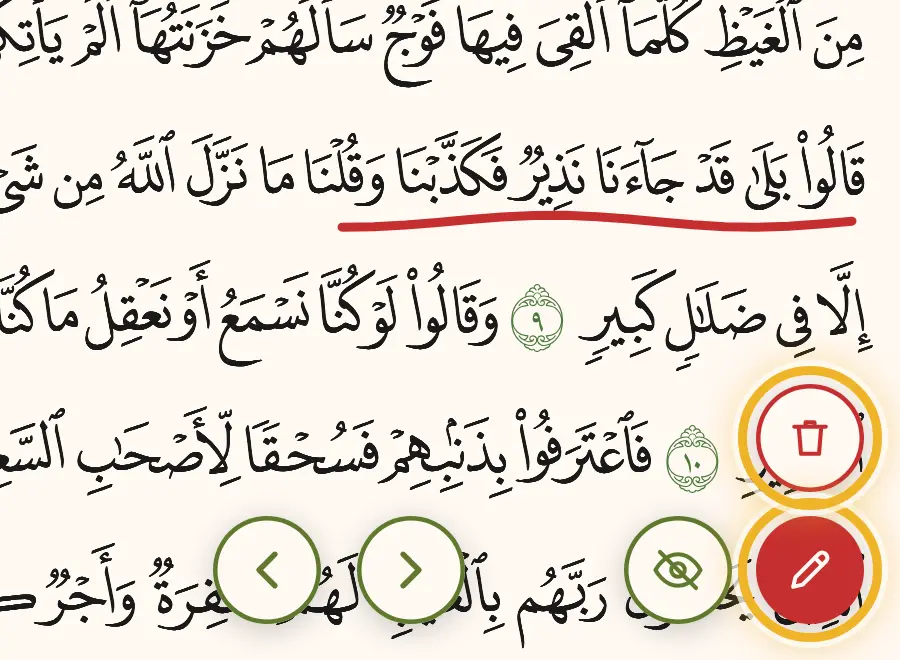
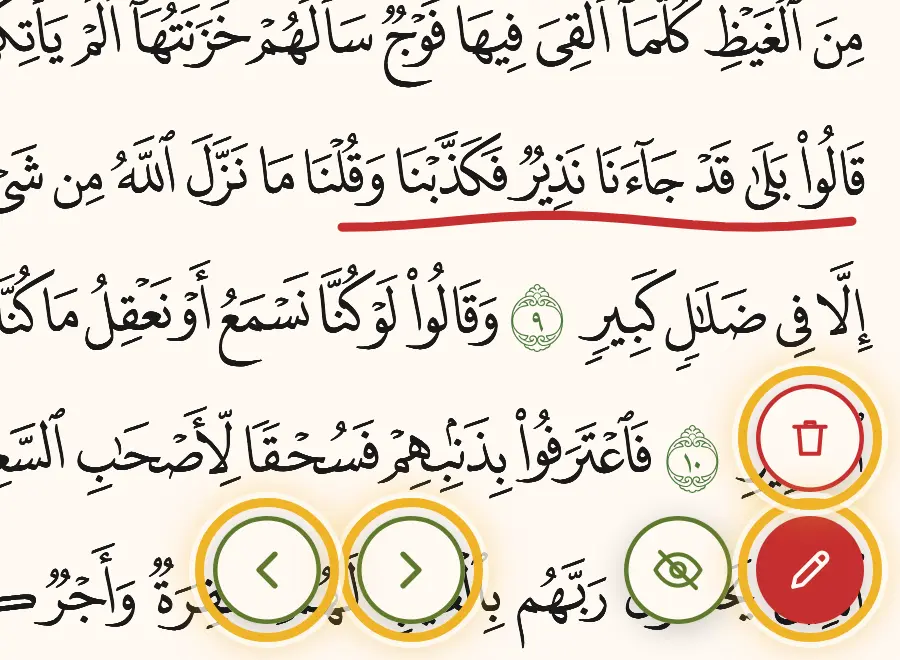
Tips say only what their picture shows
Each tip's words now name only what is in its picture, and every gold
ring is something the words name. Rabt and Muraja'a show the start
triangle and the page's buttons together on a short screen; Hifz, ayah
by ayah, the pen, hide and rating ring everything their words mention.
Day done, Rate and History drop what their pictures don't show, and
crops no longer cut a line or button in half.

Claude-Session: https://claude.ai/code/session_01Co3JXumQV2vF34bDNqrmHh

Changed region(s): [[0.1867, 0.7273, 0.56, 1.0]]

diff --git a/src/tips.ts b/src/tips.ts
@@ -15,62 +15,63 @@ export type TipId =
   | 'surahs'
   | 'history'
 
-// In the order Settings lists them: Today, then the Mushaf page, then the other screens.
+// In the order Settings lists them: Today, then the Mushaf page, then the other screens. Each one's words name only
+// what its picture shows (src/tipPictures.ts), so nothing in a tip has to be looked for elsewhere.
 export const TIPS: { id: TipId; title: string; text: string }[] = [
   {
     id: 'hifz-amount',
     title: 'How much Hifz',
-    text: '− and + change how much new Hifz you take each day, a quarter of a page at a time. The line between them shows when you would finish at that pace.',
+    text: 'Tap − or + for a quarter of a page less or more new Hifz each day. The lines between them show when you would finish at that pace.',
   },
   {
     id: 'next-day',
     title: 'Day done',
-    text: "All done, so the day is in History and tomorrow's plan is showing. Ticked one by mistake? \"Undo\" brings the day back.",
+    text: 'All three are done, so your next plan is showing. Ticked one by mistake? Tap Undo.',
   },
   {
     id: 'hifz-page',
     title: "Today's Hifz",
-    text: "The page opens ayah by ayah: tap \"+\u00a0ayah\" to add the next one. Small green triangles mark where today's Hifz starts and ends. Tap the page to show or hide the buttons.",
+    text: 'One ayah at a time: tap "+\u00a0ayah" for the next. "2.\u00a0half" starts from the middle of the page, and × shows the whole page. If the buttons fade, tap the page.',
   },
   {
     id: 'rabt-page',
     title: 'Rabt on the page',
-    text: "Green triangles mark where today's Rabt starts and ends. Tap the page to show the buttons: hide the text to test yourself, the pen for weak spots, and ayah by ayah in the corner. The star at the top rates the Surah. Swipe to turn the page.",
+    text: "Green triangles like this one mark where today's Rabt starts and ends. If the buttons fade, tap the page.",
   },
   {
     id: 'muraja-page',
     title: "Muraja'a on the page",
-    text: "Green triangles mark where today's Muraja'a starts and ends. Tap the page to show the buttons: hide the text to test yourself, the pen for weak spots, and ayah by ayah in the corner. The star at the top rates the Surah. Swipe to turn the page.",
+    text: "Green triangles like this one mark where today's Muraja'a starts and ends. If the buttons fade, tap the page.",
   },
   {
     id: 'ayah-by-ayah',
     title: 'Ayah by ayah',
-    text: 'Only the ayahs you have added show, zoomed in. "+\u00a0ayah" adds the next one, and on a long page "2.\u00a0half" starts from its middle. × shows the whole page again.',
+    text: 'Only the ayahs you have added show, zoomed in. "+\u00a0ayah" adds the next one, "2.\u00a0half" starts from the middle of the page, and × shows the whole page again.',
   },
   {
     id: 'hide',
     title: 'Hide the text',
-    text: 'Every ayah is hidden, to test yourself. Tap an ayah to show it, and tap it again to hide it. The eye button shows the whole text again.',
+    text: 'Every ayah is hidden, to test yourself. Tap an ayah to show it, and tap it again to hide it. The eye shows the whole text again.',
   },
   {
     id: 'pen',
     title: 'The pen',
-    text: 'Draw with your finger to mark weak spots in red. Drawings stay on the page until you tap the bin to clear it. While the pen is on, the ‹ › buttons turn the page.',
+    text: 'Draw with your finger to mark weak spots in red. The bin clears the page. While the pen is on, ‹ and › turn the page.',
   },
   {
     id: 'rate',
     title: 'Rate a Surah',
-    text: 'From Weak to Strong. Ratings group your Surahs on the Surahs screen, so a strong one for salah is quick to find. They never change your plan.',
+    text: 'How well do you hold this Surah? Pick from Weak to Strong. A rating never changes your plan.',
   },
   {
     id: 'surahs',
     title: 'Surahs',
-    text: 'Your memorised Surahs, grouped by how well you hold them. Tap a Surah to rate it, or its book to open it in the Mushaf.',
+    text: 'Your Surahs, grouped by how well you hold them. Tap a Surah to rate it, or the book to open it in the Mushaf.',
   },
   {
     id: 'history',
-    title: 'History',
-    text: 'Every finished day is logged here. Everything stays on this phone, so Back up now and then (to Drive or email, say), and Restore on a new phone.',
+    title: 'Back up your progress',
+    text: 'Your progress is kept only on this phone. Tap Back up now and then to save a copy, and Restore it on a new phone.',
   },
 ]
 

diff --git a/PLAN.md b/PLAN.md
@@ -50,6 +50,7 @@ Changes from my note cards. I rate each Surah myself (★ weak, ★½ last page 
 - No separate ayah-by-ayah button (until step 17, at the builder's request)
 - No Arabic-script labels or new settings
 
+31. ✅ **Tips say only what their picture shows** (builder's request): each tip's words name only what is in its picture, and every gold ring is something the words name. Rabt and Muraja'a show the start triangle with the page's buttons below it ("Green triangles like this one mark where today's Rabt starts and ends. If the buttons fade, tap the page."), on a short screen so both fit. Today's Hifz rings "+ ayah", "2. half" and ×; ayah by ayah rings × too; the pen rings ‹ and ›; hide rings the ayah tapped to show it; rating rings the choices. Day done no longer mentions History, Rate no longer mentions the Surahs screen, and the History tip is about backing up (its picture). Crops no longer cut a line or button in half, and the ring round Undo hugs the word.
 ## How we'll know it works
 
 1. Rate al-Mulk ★★★ and al-Qalam ★: the Surahs screen shows al-Mulk under strong and al-Qalam under weak, and both are still there after a Backup and restore.
